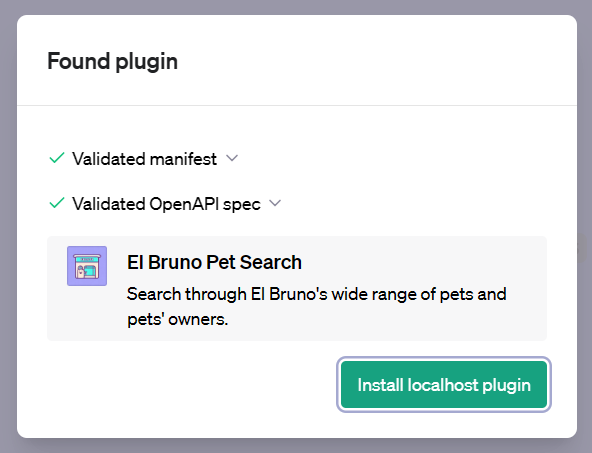
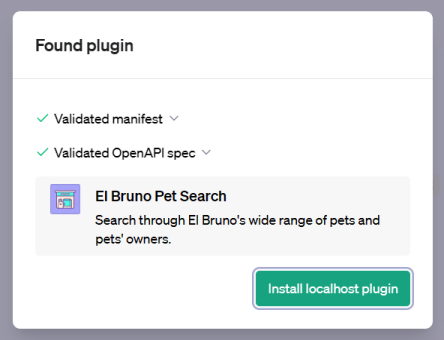
complete tutorial for testing using codespaces

diff --git a/README.md b/README.md
@@ -6,12 +6,16 @@ This is a quickstart for sample for creating [ChatGPT Plugin](https://openai.com
 
 To gain access to ChatGPT plugins, [join waitlist here](https://openai.com/waitlist/plugins)!
 
-## Getting started (coming soon!)
+## Getting started
 
 1. **📤 One-click setup**: [Open a new Codespace](https://codespaces.new/azure-samples/openai-plugin-fastapi), giving you a fully configured cloud developer environment.
-2. **🪄 Make an API**: Add routes in `src/OpenAI.PlugIn.NETSample/Program.cs`. Check [Route Handlers in Minimal API apps](https://learn.microsoft.com/en-us/aspnet/core/fundamentals/minimal-apis/route-handlers?view=aspnetcore-7.0) for more information.
-3. **▶ Run, one-click again**: Use VS Code's built-in *Run* command and open the forwarded port *8000* in your browser.
-4. **💬 Test in ChatGPT**: Copy the URL (make sure its public) and paste it in ChatGPT's [Develop your own plugin](https://platform.openai.com/docs/plugins/getting-started/debugging) flow.
+2. **🪄 Make an API**: 
+    
+    Add routes in `src/OpenAI.PlugIn.NETSample/Program.cs`.     
+    Check [Route Handlers in Minimal API apps](https://learn.microsoft.com/en-us/aspnet/core/fundamentals/minimal-apis/route-handlers?view=aspnetcore-7.0) for more information.
+
+3. **▶ Run, one-click again**: Use VS Code's built-in *Run* command and open the forwarded port *5001* in your browser.
+4. **💬 Test in ChatGPT**: Copy the URL (make sure its public) and paste it in ChatGPT's [Develop your own plugin](https://platform.openai.com/docs/plugins/getting-started/debugging) flow. Check the prompts example section below.  
 5. **🔄 Iterate quickly:** Codespaces updates the server on each save, and VS Code's debugger lets you dig into the code execution.
 
 ## Run Local
@@ -35,6 +39,37 @@ To gain access to ChatGPT plugins, [join waitlist here](https://openai.com/waitl
     1. Sample Question, "Who has more than one pet?"
     ![Who has more than one pet?](/images/06morethan1pet.png "Who has more than one pet?")
 
+## Run in Codespaces
+
+1. Click here to open in GitHub Codespaces
+
+    [![Open in GitHub Codespaces](https://img.shields.io/static/v1?style=for-the-badge&label=GitHub+Codespaces&message=Open&color=lightgrey&logo=github)](https://codespaces.new/elbruno/OpenAI-Plugin-NET-Sample)
+
+1. This action may take a couple of minutes. Once the Codespaces is initialized, check the Extensions tab and check that all extensions are installed.
+
+1. The file `src/OpenAI.PlugIn.NETSample/Program.cs` should be open. If not, open it using the ***Explorer*** option from the Right Sidebar.
+
+1. Using the  the ***Run and Debug*** option, run the program. Select "C# as the run option".
+
+1. Open Codespaces Ports tab. Select the running instance for the local debug using port 5001, right click, and make it public.
+
+    ![Make port 5001 public](/images/22makeportpublic.png "Make port 5001 public")
+
+1. Copy the Codespaces address for port 8000. It should be similar to this one: 
+
+    ```bash
+    https://elbruno-laughing-palm-tree-wggg7q9qx93v4g-5100.preview.app.github.dev/
+    ```
+
+1. Open Chat GPT and add the plugin with the Codespaces address
+
+    ![Copy run and debug url](/images/25chatgptcodespacesdebugurl.png "Copy run and debug url")
+
+1. Open Chat GPT and add the plugin with the Codespaces address
+
+    ![Install a new plugin using the run and debug url](/images/26pluginfound.png "Install a new plugin using the run and debug url")
+
+1. Confirm the security questions and you are ready, the plugin is installed and ready to use in ChatGPT.
 
 ## Test in ChatGPT
 
@@ -44,32 +79,5 @@ You can use the following prompts to test the plugin in ChatGPT:
 - List the cat names in the catalog
 - What info is needed to add a new pet?
 - OK, let's add a new pet. His name is Net, is a calico breed, 17-year-old brown cat. He weighs 3 kilograms. His owner is Bruno Capuano, with the same owner information that you have in the database.
-
-
-## Run in Codespaces (Coming Soon!)
-1. Click here to open in GitHub Codespaces
-
-    [![Open in GitHub Codespaces](https://img.shields.io/static/v1?style=for-the-badge&label=GitHub+Codespaces&message=Open&color=lightgrey&logo=github)](https://codespaces.new/elbruno/OpenAI-Plugin-NET-Sample)
-
-1. This action may take a couple of minutes. Once the Codespaces is initialized, check the Extensions tab and check that all extensions are installed.
-
-    **ToDo ADD IMAGE** 
-
-1. Using the  the ***Explorer*** option, open the file `src/OpenAI.PlugIn.NETSample/Program.cs`.
-
-    **ToDo ADD IMAGE** 
-
-1. Using the  the ***Run and Debug*** option, run the program. Select "C# as the run option".
-
-    **ToDo ADD IMAGE** 
-
-1. Open Codespaces Ports tab, right click 8000, and make it public.
-
-    **ToDo ADD IMAGE** 
-
-1. Copy the Codespaces address for port 8000
-1. Open Chat GPT and add the plugin with the Codespaces address
-1. Run one of the following queries 
-    1. *How many cats are in the catalog?*
-    1. *Is there anyone who owns more than one pet?*
-
+- Who owns the oldest Pet?
+- Who has more than one pet?
